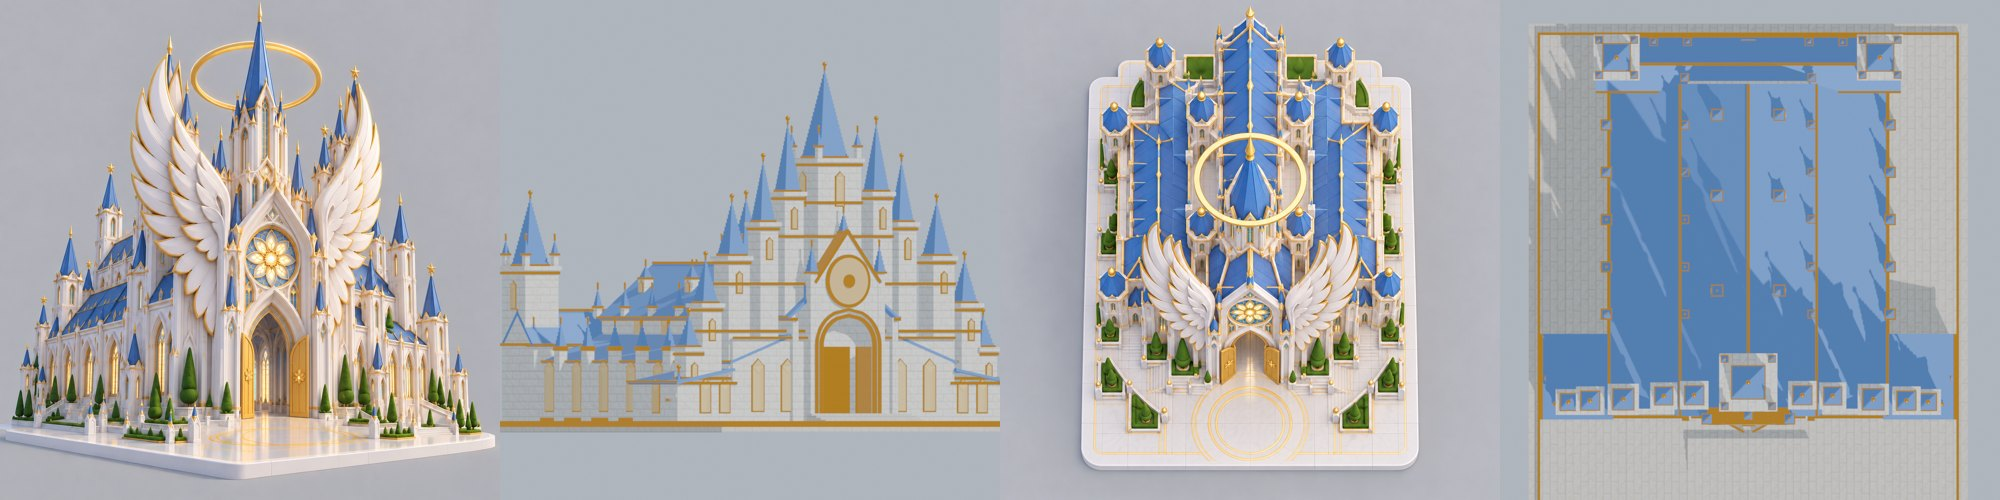
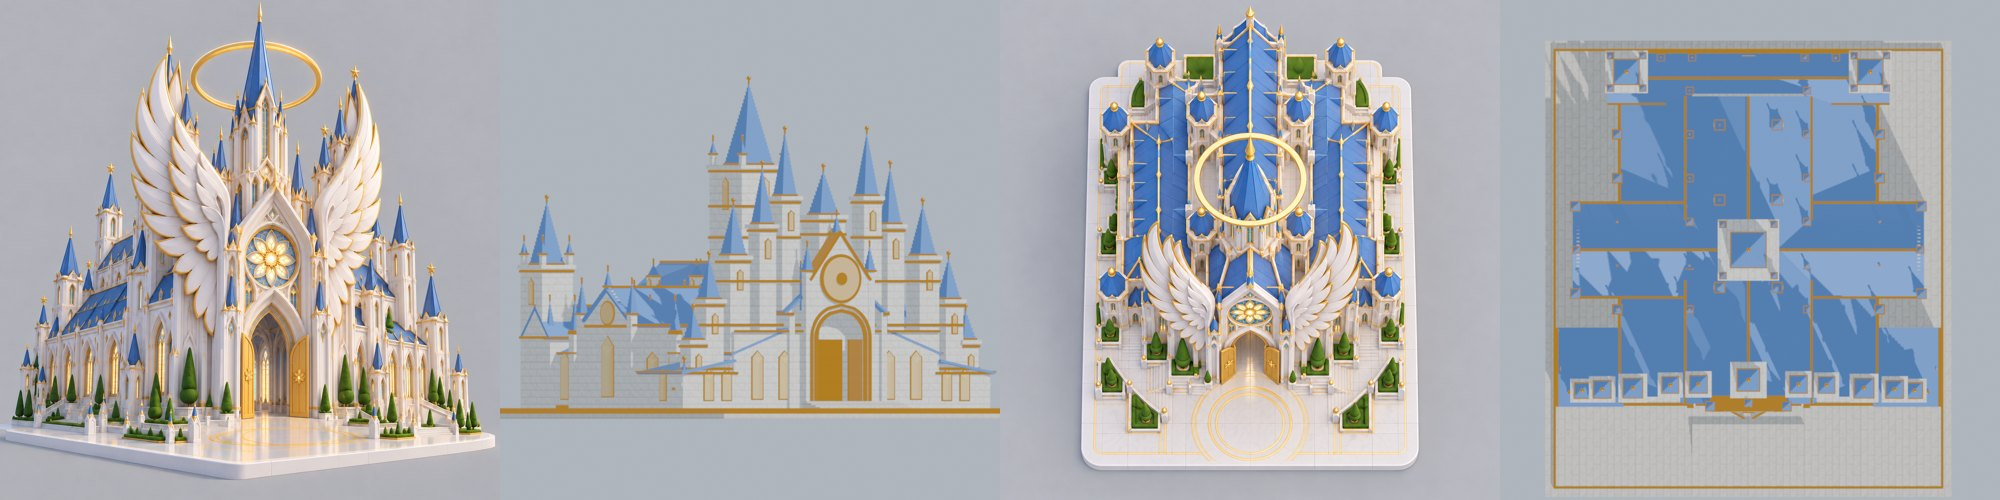
이미지3: 빛 성 C2 골격 v3(십자 평면·교차 탑·버팀벽 첨탑 줄)

Changed region(s): [[0.744, 0.03, 0.992, 0.99], [0.248, 0.15, 0.496, 0.87]]

diff --git a/tools/skeleton_castle.py b/tools/skeleton_castle.py
@@ -191,9 +191,10 @@ for sg in (-1, 1):
         lancet("AisleWin%d_%d" % (k_, b_), (sg, 0.0), sg * (AX + 0.5), yb, Z0 + 1.6, 2.0, 6.4)
     for b_, yb in enumerate([y - 3.5 for y in BAYS[1:]]):
         px = sg * (AX + 1.0)
-        box("Buttress%d_%d" % (k_, b_), px - 0.7, px + 0.7, yb - 0.7, yb + 0.7, Z0, AISLE_TOP + 1.6)
-        add("ButtressCap%d_%d" % (k_, b_), (1.7, 0.35, 1.7), (px, yb, AISLE_TOP + 1.75), mat="gold")
-        spire("ButtressSp%d_%d" % (k_, b_), px, yb, AISLE_TOP + 1.95, 1.3, 3.6, 0.4)
+        box("Buttress%d_%d" % (k_, b_), px - 0.7, px + 0.7, yb - 0.7, yb + 0.7, Z0, AISLE_TOP + 3.0)
+        add("ButtressBand%d_%d" % (k_, b_), (1.6, 0.3, 1.6), (px, yb, AISLE_TOP), mat="gold")
+        add("ButtressCap%d_%d" % (k_, b_), (1.7, 0.35, 1.7), (px, yb, AISLE_TOP + 3.15), mat="gold")
+        spire("ButtressSp%d_%d" % (k_, b_), px, yb, AISLE_TOP + 3.35, 1.3, 5.0, 0.4)    # 최종 검수 10/12: a row on every buttress
     lean_roof("Aisle%d" % k_, sg, sg * AX, sg * NX, YB, YF - 1.0, AISLE_TOP, AISLE_TOP + 4.2)
 
 # front chapels (the low wide front either side, under the outer towers): x 20..30, the front 12 studs
@@ -290,9 +291,33 @@ for i_, (xt, wt, zt, sh) in enumerate(STAIR):
         yt = YF - 1.0 - wt / 2 - (0.8 if i_ in (0, 1) else 0.0)
         tower("StairTower%d_%d" % (i_, (sg + 1) // 2), sg * xt, yt, wt, Z0, zt, sh, bands=tuple(z for z in (8.0, 15.0, 22.0, 29.0) if z < zt - 2),
               win_faces=((0.0, 1.0),) if zt > 10 else (), win=(0.8, 2.6 if zt > 14 else 1.6), turrets=False, spire_w=0.8)
-CY, CW = YF - 5.4, 7.8                        # the centre tower (the tallest spire, the halo ring over it)
-tower("CentreTower", 0.0, CY, CW, Z0, 40.0, 13.0, spire_w=0.62, bands=(29.0, 34.0),
+# 최종 검수 10/12 (v3): a cross plan as the 2D top view - transept arms either side in the middle of the nave, the tallest
+# spire tower (the halo ring) on the crossing
+TY0, TY1, TX, TT = -7.0, 7.0, 27.5, 15.0        # transept y span, arm end x, wall top
+for sg in (-1, 1):
+    k_ = (sg + 1) // 2
+    x0_, x1_ = sorted((sg * NX, sg * TX))
+    box("Transept%d" % k_, x0_, x1_, TY0, TY1, Z0, TT)
+    add("TranseptCornice%d" % k_, (x1_ - x0_ + 0.4, 0.5, TY1 - TY0 + 0.6), ((x0_ + x1_) / 2, 0.0, TT - 0.2), mat="gold")
+    n_ = 12
+    for k in range(n_):                       # the arm's end gable (strips) + gold coping
+        wk = (TY1 - TY0) * (1 - (k + 0.5) / n_)
+        box("TranseptGable%d_%d" % (k_, k), sg * TX - 0.5 if sg > 0 else sg * TX, sg * TX if sg > 0 else sg * TX + 0.5, -wk / 2, wk / 2,
+            TT + 6.0 * k / n_, TT + 6.0 * (k + 1) / n_ + 0.02)
+    lancet("TranseptEndWin%d" % k_, (sg, 0.0), sg * TX, 0.0, Z0 + 2.0, 3.0, 8.0)
+    disk("TranseptRose%d" % k_, 3.4, 0.3, (sg * (TX + 0.05), 0.0, TT + 1.9), (sg, 0.0, 0.0), "wglass")
+    disk("TranseptRoseRing%d" % k_, 4.0, 0.25, (sg * (TX + 0.02), 0.0, TT + 1.9), (sg, 0.0, 0.0))
+    for w_, yw in enumerate((TY0 + 2.0, TY1 - 2.0)):
+        lancet("TranseptSideWin%d_%d" % (k_, w_), (0.0, 1.0 if yw > 0 else -1.0), sg * (AX + TX) / 2, TY1 if yw > 0 else TY0, Z0 + 2.0, 1.8, 6.0)
+    for c_, yc in enumerate((TY0, TY1)):      # pinnacles on the arm end corners
+        add("TranseptPin%d_%d" % (k_, c_), (1.2, TT + 1.6 - Z0, 1.2), (sg * (TX + 0.2), yc, (TT + 1.6 + Z0) / 2))
+        spire("TranseptPinSp%d_%d" % (k_, c_), sg * (TX + 0.2), yc, TT + 1.6, 1.4, 5.0, 0.4)
+    spire("TranseptGableSp%d" % k_, sg * TX, 0.0, TT + 6.0, 1.0, 2.6, 0.35)
+gable_roof_x("TranseptRoof", -TX, TX, TY0, TY1, TT, TT + 6.0)
+CY, CW = 0.0, 9.0                             # the crossing tower (the tallest spire, the halo ring over it)
+tower("CentreTower", 0.0, CY, CW, NAVE_TOP - 1.0, 40.0, 13.0, spire_w=0.62, bands=(29.0, 34.0),
       win_faces=((0.0, 1.0), (1.0, 0.0), (-1.0, 0.0), (0.0, -1.0)), win=(1.3, 4.2))
+tower("FacadeTower", 0.0, YF - 4.2, 5.0, Z0, 32.0, 7.0, spire_w=0.7, bands=(29.5,), win_faces=((0.0, 1.0),), win=(1.0, 2.6), turrets=False)
 orn.append({"type": "halo_ring", "name": NAME + "_HaloRing", "pos": [0.0, CY, 46.5], "R": 7.3,
             "note": "exact circle ring (Blender), 디자인 검수 10/12; 2D ring 180 px = 14.5 studs across"})
 
